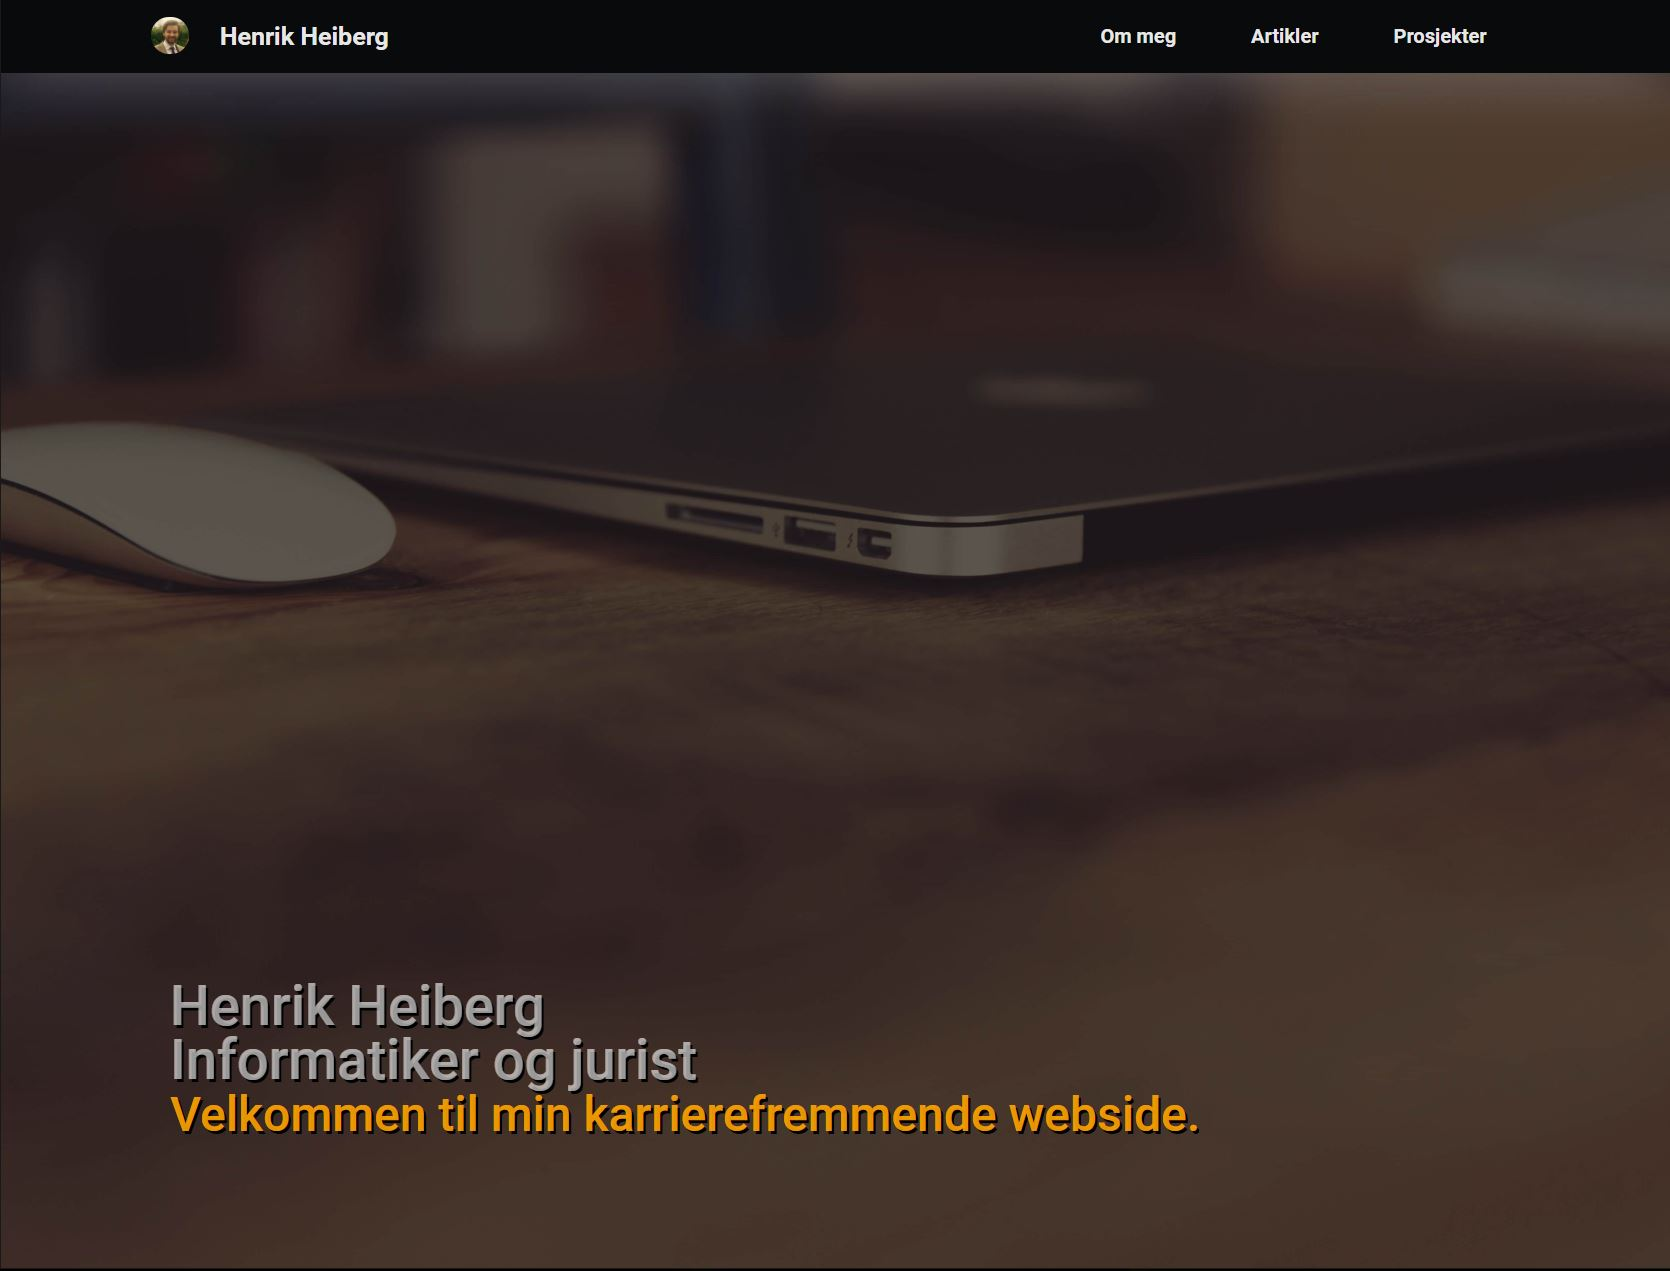
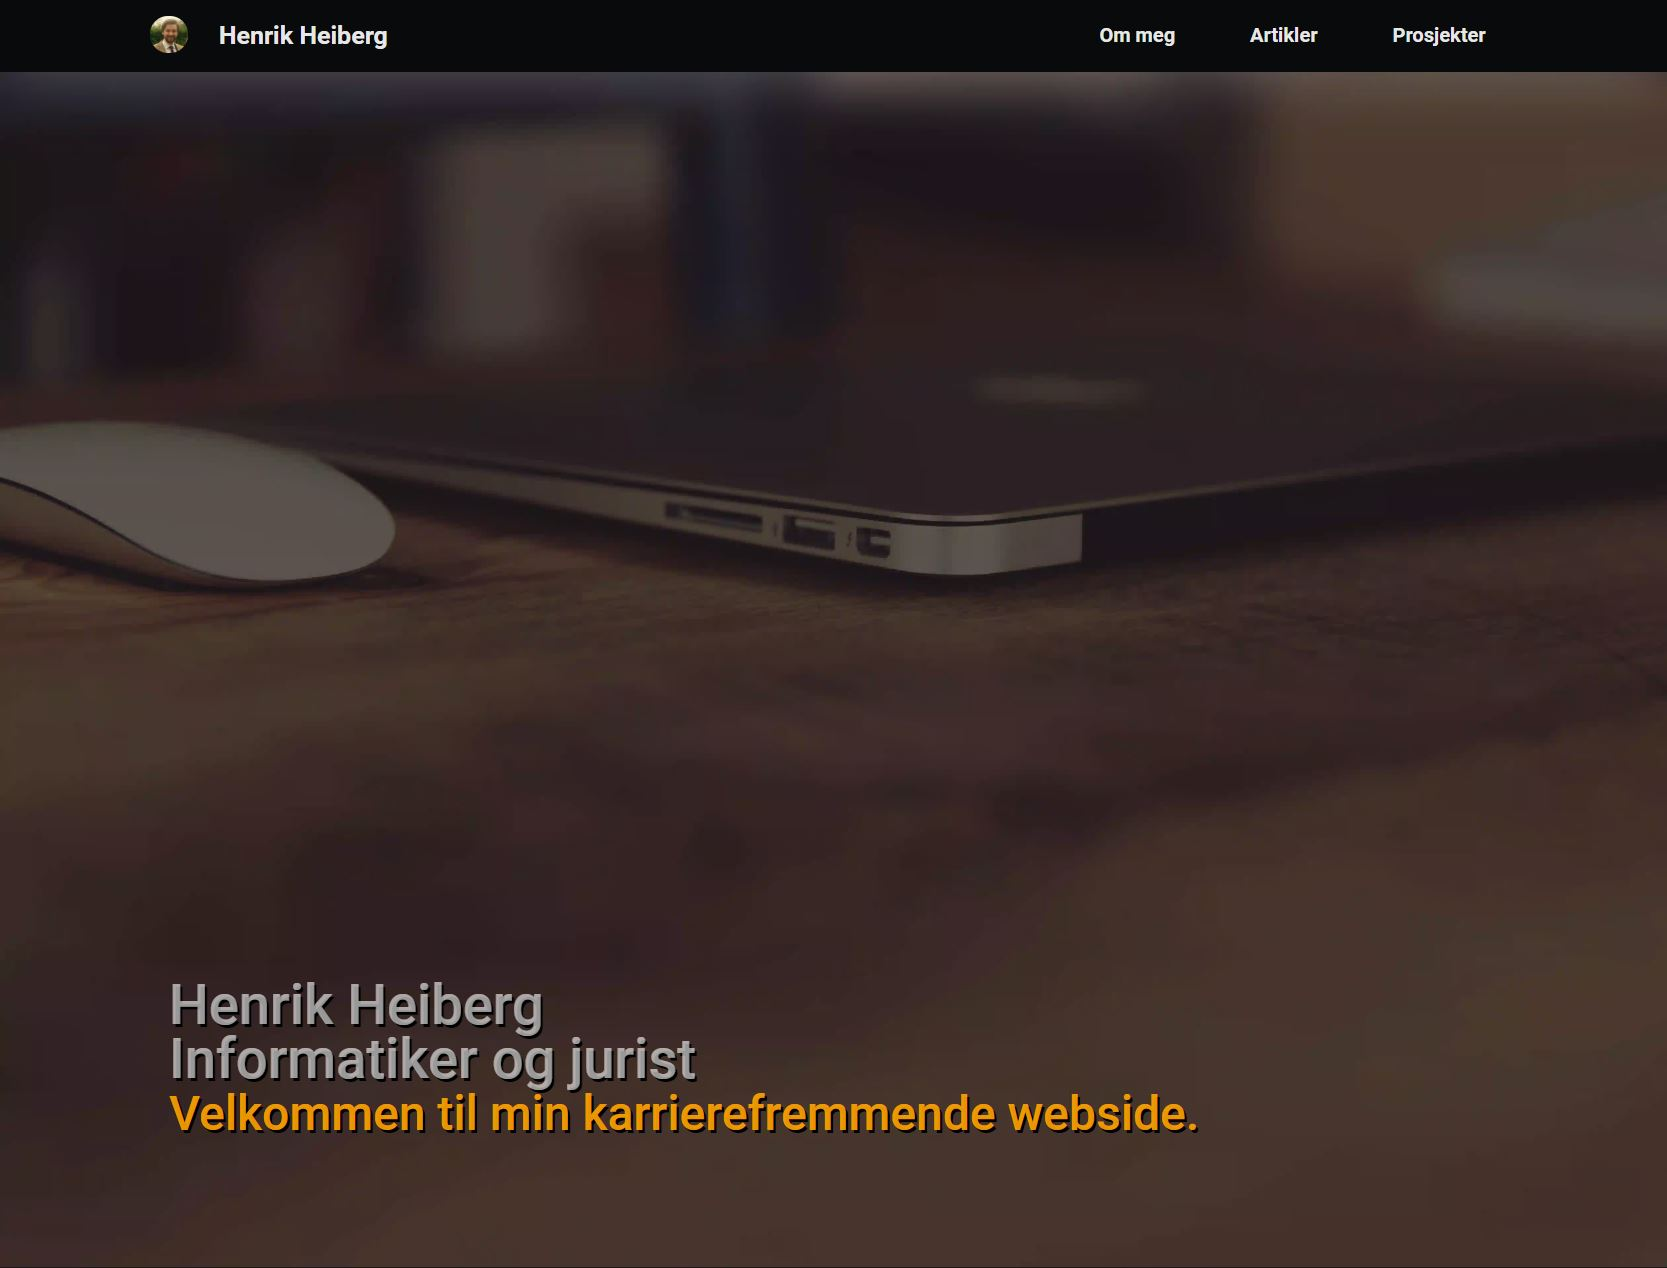
endret tilbake originale bilder. webp funker ikke for safari

diff --git a/src/komponenter/sider/artikler/Yndlingsfakta.js b/src/komponenter/sider/artikler/Yndlingsfakta.js
@@ -1,9 +1,9 @@
 import React from 'react'
 import Footer from '../../deler/Footer'
 
-import bildeTopp from '../../../bilder/comp-space.webp'
-import hubble1 from '../../../bilder/comp-hubble1.webp'
-import hubble2 from '../../../bilder/comp-hubble2.webp'
+import bildeTopp from '../../../bilder/space.jpg'
+import hubble1 from '../../../bilder/hubble1.jpg'
+import hubble2 from '../../../bilder/hubble2.jpg'
 
 
 class Yndlingsfakta extends React.Component {

diff --git a/src/komponenter/sider/Artikler.js b/src/komponenter/sider/Artikler.js
@@ -2,7 +2,7 @@ import React from 'react'
 import Footer from '../deler/Footer'
 import { NavLink } from 'react-router-dom';
 
-import spaceBilde from '../../bilder/comp-space.webp'
+import spaceBilde from '../../bilder/space.jpg'
 import '../../css/tekstbokser.css'
 import '../../css/artikler.css'
 import '../../css/input_range.css'

diff --git a/src/komponenter/sider/Prosjekter.js b/src/komponenter/sider/Prosjekter.js
@@ -4,7 +4,7 @@ import '../../css/tekstbokser.css'
 import '../../css/prosjekter.css'
 import '../../css/carousel.css'
 import bilde1 from '../../bilder/prosjekt1-mindre.jpg'
-import bilde2 from '../../bilder/comp-prosjekt2.webp'
+import bilde2 from '../../bilder/prosjekt2.JPG'
 import bilde3 from '../../bilder/prosjekt3.JPG'
 
 

diff --git a/src/komponenter/sider/OmMeg.js b/src/komponenter/sider/OmMeg.js
@@ -1,7 +1,7 @@
 import React from 'react'
 import Footer from '../deler/Footer'
 
-import profilBilde from '../../bilder/comp-profil.webp'
+import profilBilde from '../../bilder/profil.jfif'
 import '../../css/tekstbokser.css'
 import '../../css/timeline.css'
 

diff --git a/src/komponenter/sider/Startside.js b/src/komponenter/sider/Startside.js
@@ -1,6 +1,6 @@
 import React from 'react'
 import '../../css/startside.css'
-import bakgrunn from '../../bilder/comp-bak12.webp'
+import bakgrunn from '../../bilder/bak12.jpg'
 
 const Startside = () => {
 
